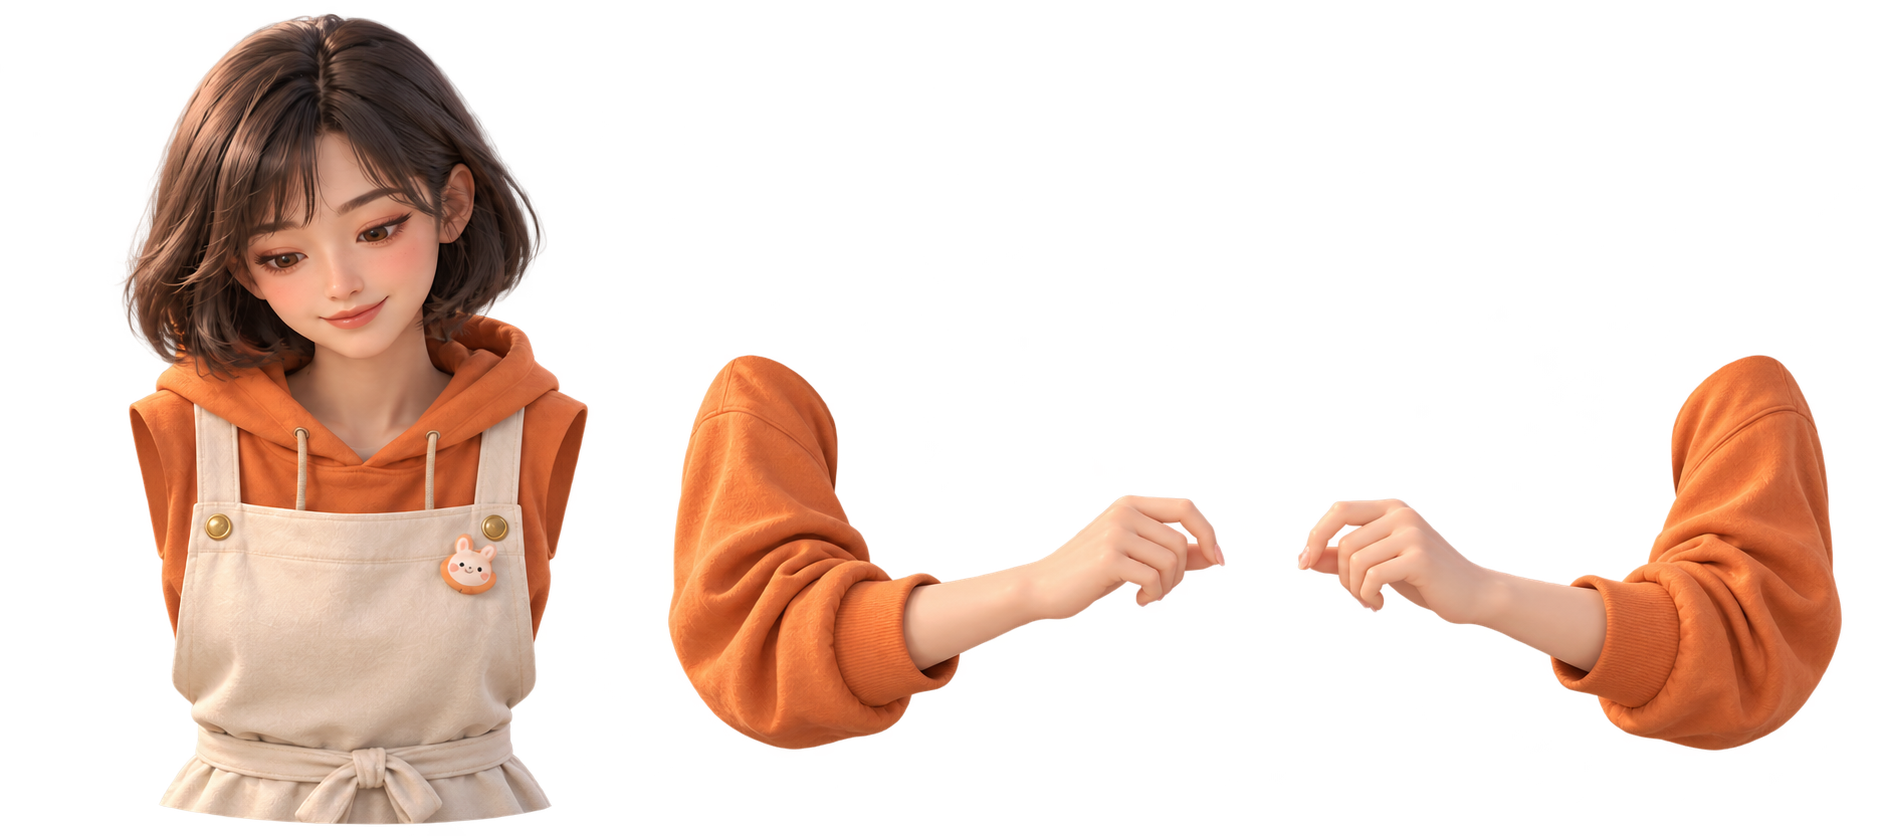
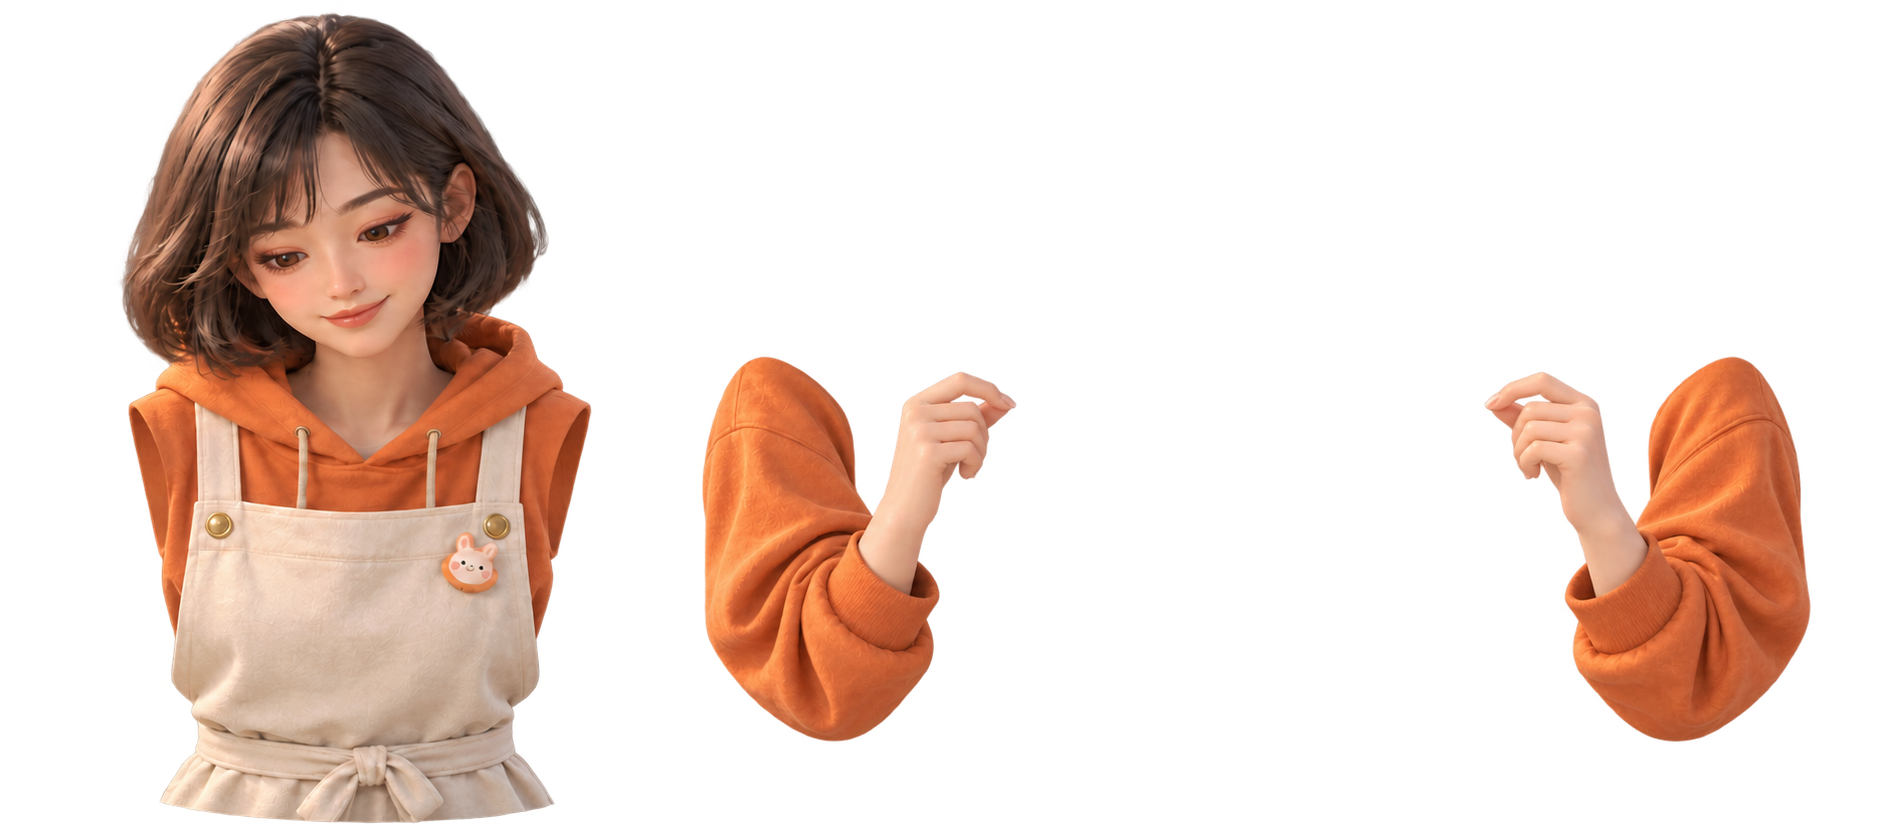
fix: v0.3.2 calibrate presenter anatomy and bent-arm proportions

diff --git a/src/live-scene.css b/src/live-scene.css
@@ -4,8 +4,8 @@
 .actor-figure{animation:actor-breathe 3.6s ease-in-out infinite;transform-origin:270px 440px;transform-box:view-box}
 .actor-head{animation:actor-head-sway 5.8s ease-in-out infinite;transform-origin:270px 224px;transform-box:view-box}
 .actor-eyes{animation:actor-blink 5.1s linear infinite;transform-origin:270px 153px;transform-box:view-box}
-.actor-arm{transform-box:view-box}.actor-arm-left{transform-origin:142px 220px}.actor-arm-right{transform-origin:398px 220px}
-.actor-hand{transform-box:view-box}.actor-hand-left{transform-origin:142px 220px}.actor-hand-right{transform-origin:398px 220px}
+.actor-arm{transform-box:view-box}.actor-arm-left{transform-origin:166px 246px}.actor-arm-right{transform-origin:374px 246px}
+.actor-hand{transform-box:view-box}.actor-hand-left{transform-origin:166px 246px}.actor-hand-right{transform-origin:374px 246px}
 .actor-bag-frame{opacity:0;transform-origin:270px 365px;transform-box:view-box}.actor-bag-left{transform-origin:239px 318px;transform-box:view-box}.actor-bag-right{transform-origin:300px 318px;transform-box:view-box}
 .actor-result-card{opacity:0;transform-origin:270px 405px;transform-box:view-box;filter:drop-shadow(0 4px 9px #392a3040)}
 .actor-result-light{opacity:0;transform-origin:270px 300px;transform-box:view-box}.actor-spark{opacity:0;transform-origin:center;transform-box:fill-box}

diff --git a/index.html b/index.html
@@ -20,7 +20,7 @@
         <button class="nav-item" id="nav-bag"><span>▢</span>我的背包<i id="bag-count">0</i></button>
         <button class="nav-item" id="nav-collection"><span>▦</span>收藏图鉴</button>
       </div>
-      <div class="side-bottom"><span class="offline-dot"></span>单机模式<button class="nav-item" id="nav-settings"><span>⚙</span>设置</button><small>v0.3.1</small></div>
+      <div class="side-bottom"><span class="offline-dot"></span>单机模式<button class="nav-item" id="nav-settings"><span>⚙</span>设置</button><small>v0.3.2</small></div>
     </aside>
     <main>
       <header class="topbar">

diff --git a/assets/host-xiaotao-notes.md b/assets/host-xiaotao-notes.md
@@ -1,13 +1,13 @@
-# 小桃角色贴图 v0.3.1
+# 小桃角色贴图 v0.3.2
 
 - 工具：内置 image_gen.imagegen，透明背景；没有使用 CLI 或外部素材。
-- 保存文件：assets/host-xiaotao-atlas.png（1881×836 RGBA）。
+- 保存文件：assets/host-xiaotao-atlas.png（1882×836 RGBA）。
 - 参考：assets/studio.png 与 assets/studio-unboxing.png 中的原版小桃。
 - 用途：头部/躯干、左臂、右臂的独立贴图，通过 SVG viewport 选取并在肩部旋转。保留原始 alpha，不重新抠图。
 - 集成：src/live-scene.mjs。人物保留细腻脸部、发丝、棉质卫衣和围裙，配合呼吸、接袋、撕袋、卡牌与纸屑效果。
 - 检查：PNG 实际透明通道、三种横屏尺寸、双臂动作与订单流程。
 
-## 最终采用素材的提示词
+## 原始角色素材提示词
 
 ```text
 Use case: stylized-concept
@@ -20,4 +20,16 @@ MIDDLE COLUMN: only the matching arm belonging to the LEFT side of the displayed
 RIGHT COLUMN: matching arm belonging to the RIGHT side of the displayed character, mirrored pose. Shoulder upper right, elbow lower right, forearm inward to the left, pinching fingers at far left. Complete rounded sleeve cap.
 Body column fills most of its height; two arm columns have identical scale to the body, aligned around the middle/lower part of the canvas with room around them. These are separate rigging pieces, never touching one another. Arms have correct elegant adult human proportions and five fingers. Matching light from upper left across all pieces.
 Background: actual transparent alpha, not a checkerboard. No table, no bag, no toy, no text, no watermark, no background, no detached extra fingers. Preserve the reference's appealing character quality above all.
+```
+
+
+## v0.3.2 比例与姿势修正
+
+采用同次内置 imagegen 生成的弯臂修订素材，保留人物主体。身体从约 0.51 缩为 0.46，双臂由 0.30 放大为 0.42，保持各自等比。肩部锚点为 (166,246) 与 (374,246)。运行时使用 SVG viewport 选取三个区域，不修改贴图像素。
+
+修订提示词：
+
+```text
+Use case: precise-object-edit
+Edit target: this transparent character puppet atlas. Keep the LEFT character head and torso EXACTLY unchanged, same beautiful face, hair, clothing, silhouette, scale, placement and lighting. Preserve genuine transparency. Modify ONLY the two detached arms: make both much more compact bent-arm poses, with the forearms angling steeply upward and inward, bringing each pinching hand close to its own shoulder horizontally. The current very long horizontally extended forearms are wrong for the rig. Each arm's opaque bounding box must be approximately 300 pixels wide and 395 pixels tall on this same 1881x836 canvas (current arms are about550 wide). Left-side arm stays in middle column: shoulder near(750,370), elbow near(720,710), pinching fingertips near(960,550). Right-side arm stays in right column: shoulder near(1750,370), elbow near(1780,710), pinching fingertips near(1540,550). Upper arms and forearms look anatomically natural, simply bend the elbows more acutely rather than stretching or shrinking body parts. Matching orange hoodie sleeves rolled at wrist, delicate detailed hands. Preserve soft 3D texture lighting rendering. No new objects, no text, no bag, no table, no background. Do not change the base body at all.
 ```

diff --git a/README.md b/README.md
@@ -2,7 +2,7 @@
 
 一款横屏、离线单机的潮玩直播购物模拟器。坐进小桃的虚构直播间，挑选盲盒，让主播拆开，再决定折现还是收藏。
 
-当前版本：**v0.3.1 可玩原型**。使用原创布景、可动画主播、程序绘制的潮玩、模拟弹幕、合成音效和原创循环器乐；主播通过动作与字幕表现，尚无语音。
+当前版本：**v0.3.2 可玩原型**。使用原创布景、可动画主播、程序绘制的潮玩、模拟弹幕、合成音效和原创循环器乐；主播通过动作与字幕表现，尚无语音。
 
 ## 直接玩
 

diff --git a/CHANGELOG.md b/CHANGELOG.md
@@ -1,5 +1,13 @@
 # 版本记录
 
+## v0.3.2 — 2026-10-15
+
+修正主播头身、双臂与手部比例。
+
+- 将躯干与双臂从不一致的 51% / 30% 缩放校准为 46% / 42%，各贴图保持原始宽高比例。
+- 换用弯肘姿势的双臂贴图，重新设置肩部连接与旋转锚点，使握袋、撕开时的手腕和袋口相接。
+- 加入贴图等比缩放及身体/手臂尺度一致性检查，复核三种横屏尺寸与完整开箱流程。
+
 ## v0.3.1 — 2026-10-15
 
 重做小桃角色美术，恢复原版主播的精致暖色 3D 风格。
